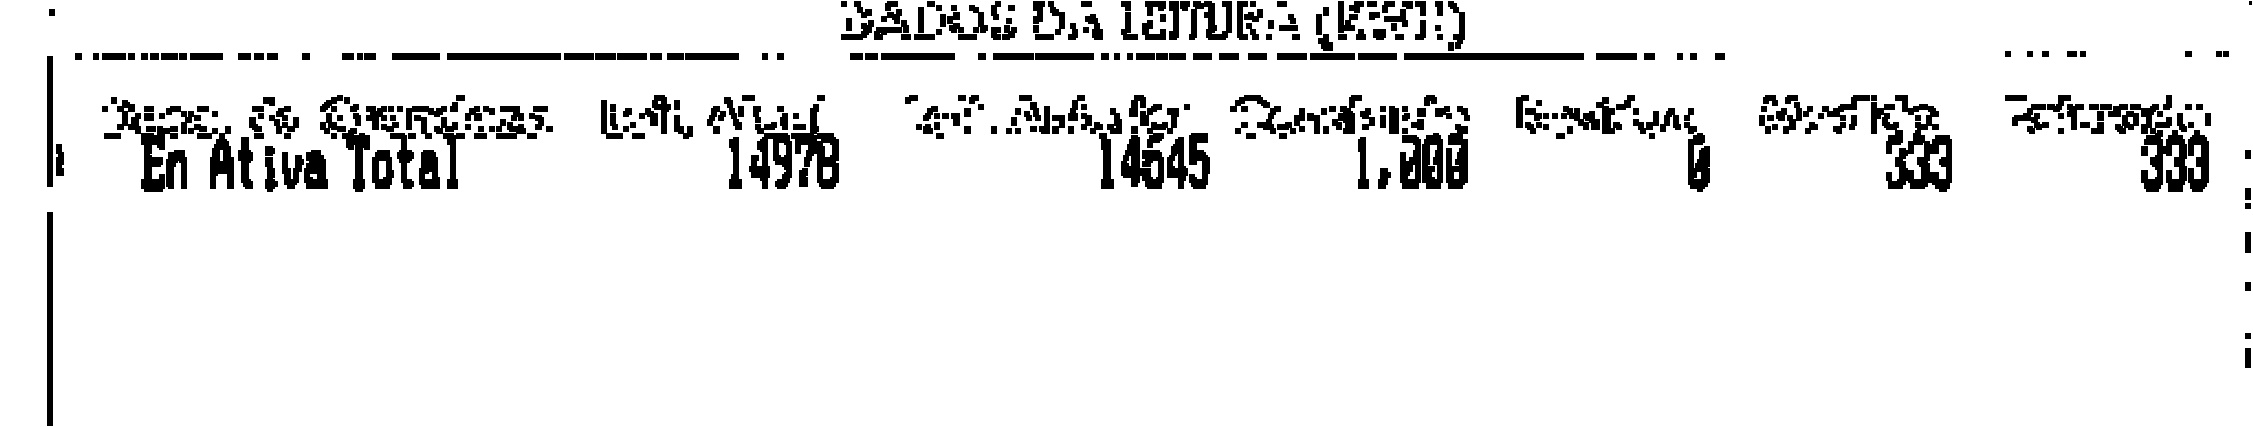
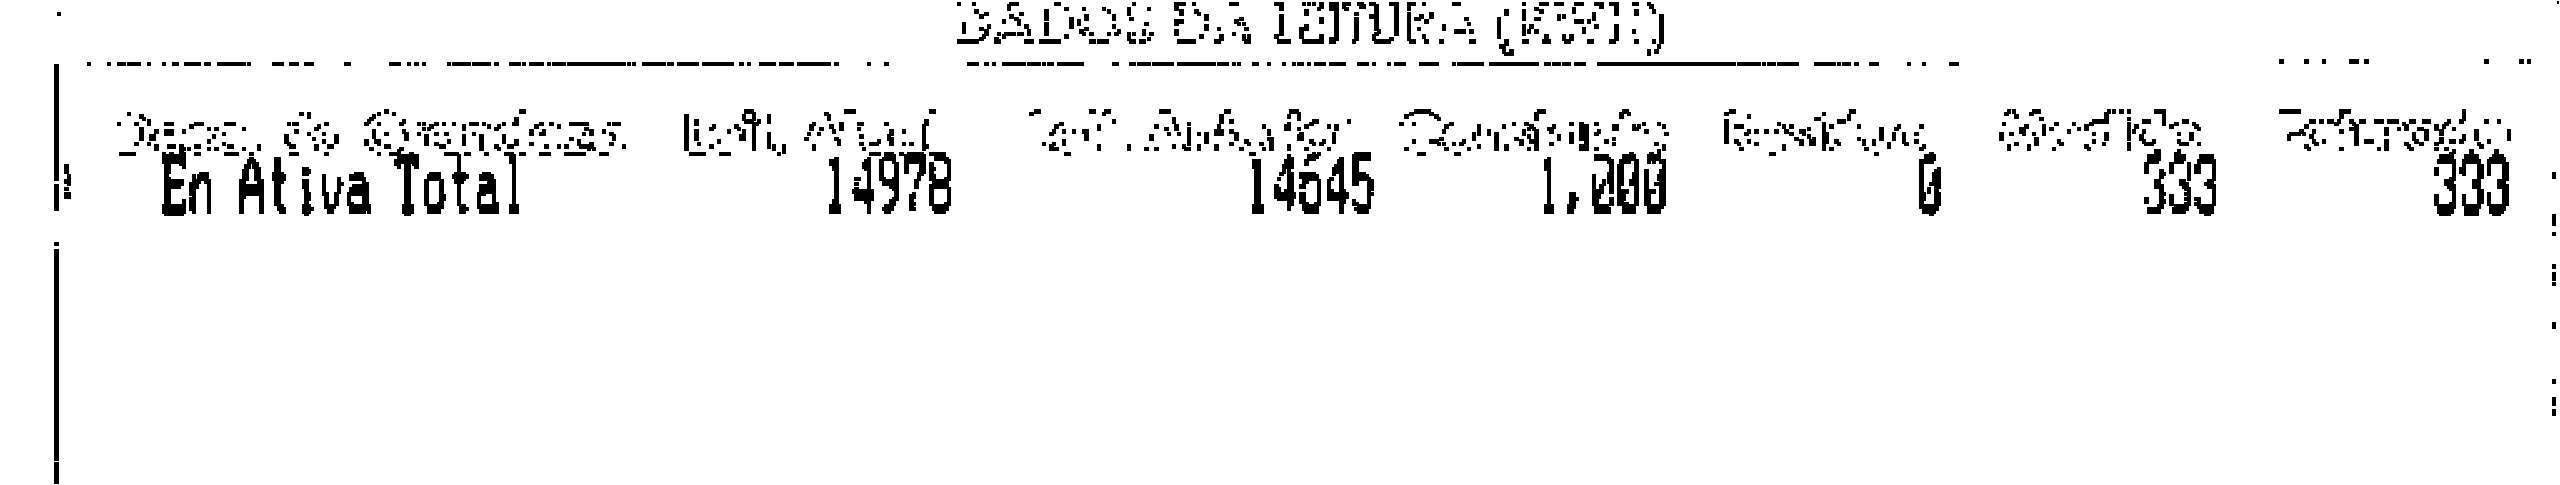
Update image files and refine bill parsing logic
- Updated _pipe-readings.jpg and _pipe-readingsSoft.jpg for improved OCR accuracy.
- Adjusted parameters in test-scan-pipeline.mjs for better reading extraction.
- Enhanced billImport.js and billParser.js to improve reading extraction and validation, accommodating various OCR outputs.

diff --git a/src/lib/billParser.js b/src/lib/billParser.js
@@ -153,18 +153,30 @@ function extractMonthKey(text) {
 }
 
 function collectMeterCandidates(text) {
-  const normalized = normalizeText(text);
+  // Remove datas e anos soltos para não virar "leitura" (ex.: 05/11/2026 → 2026).
+  const normalized = normalizeText(text)
+    .replace(/\b\d{1,2}\s*[\/.\-]\s*\d{1,2}\s*[\/.\-]\s*\d{2,4}\b/g, " ")
+    .replace(/\b20\d{2}\b/g, " ");
   const seen = new Set();
   const out = [];
   for (const match of normalized.matchAll(/\b(\d{4,6})\b/g)) {
     const num = parseBrNumber(match[1]);
     if (num == null || looksLikeYear(num) || num < 1000) continue;
-    // Evita medidor/UC típicos se aparecerem isolados demais; ainda entram no pareamento.
     if (seen.has(num)) continue;
     seen.add(num);
     out.push(num);
   }
   return out;
+}
+
+/** Números na linha En Ativa Total, na ordem da fatura. */
+function extractAtivaNumbers(text) {
+  const normalized = normalizeText(text);
+  const line = normalized.match(/en\s*[a-z]{0,12}\s*total([^\n]{0,160})/i);
+  if (!line) return [];
+  return [...line[1].matchAll(/\b(\d{1,6}(?:[.,]\d{1,3})?)\b/g)]
+    .map((m) => parseBrNumber(m[1]))
+    .filter((n) => n != null && !looksLikeYear(n));
 }
 
 function pickReadingPair(candidates, consumptionHint) {
@@ -206,22 +218,68 @@ function extractReadings(text, consumptionHint = null) {
   let current = null;
   let source = null;
 
-  // Linha Amazonas (mesmo com OCR ruído): En Ativa Total 14978 14645 ...
-  const compact = normalized.match(
-    /en\s*[a-z]{0,12}\s*total[^\d]{0,30}(\d{4,6})\s+(\d{4,6})/i,
-  );
-  if (compact) {
-    current = parseBrNumber(compact[1]);
-    previous = parseBrNumber(compact[2]);
+  // Ordem Amazonas: En Ativa Total | atual | anterior | const | res | medido | fat
+  const ativaNums = extractAtivaNumbers(text);
+  if (ativaNums.length) {
+    const ints = ativaNums.filter((n) => Number.isInteger(n));
+    const big = ints.filter((n) => String(n).length >= 5);
+    const first = ints[0] ?? null;
+    const second = ints[1] ?? null;
+    const kwhFromAtiva = ints.find((n) => n >= 50 && n <= 5000 && String(n).length <= 4) ?? null;
+    const kwh = consumptionHint ?? kwhFromAtiva;
+
     if (
-      current != null && previous != null
-      && !looksLikeYear(current) && !looksLikeYear(previous)
-      && current >= previous
+      first != null && second != null
+      && String(first).length >= 4 && String(second).length >= 4
+      && !looksLikeYear(first) && !looksLikeYear(second)
     ) {
-      source = "ativa-total";
-    } else {
-      previous = null;
-      current = null;
+      if (first >= second && (kwh == null || Math.abs(first - second - kwh) <= 8)) {
+        current = first;
+        previous = second;
+        source = "ativa-ordered";
+      } else if (kwh != null && String(second).length >= 5) {
+        // Atual OCR veio errada (14378 vs 14978); confia na anterior + consumo.
+        previous = second;
+        current = second + kwh;
+        source = "ativa-prev-plus-kwh";
+      } else if (kwh != null && String(first).length >= 5 && first > kwh) {
+        current = first;
+        previous = first - kwh;
+        source = "ativa-curr-minus-kwh";
+      }
+    } else if (big.length === 1 && kwh != null) {
+      if (first != null && first < big[0] && String(first).length < 5) {
+        previous = big[0];
+        current = big[0] + kwh;
+        source = "ativa-prev-plus-kwh";
+      } else {
+        current = big[0];
+        previous = big[0] - kwh;
+        source = "ativa-curr-minus-kwh";
+      }
+    } else if (big.length === 1) {
+      current = big[0];
+      source = "ativa-current-only";
+    }
+  }
+
+  // Linha Amazonas (mesmo com OCR ruído): En Ativa Total 14978 14645 ...
+  if (previous == null || current == null) {
+    const compact = normalized.match(
+      /en\s*[a-z]{0,12}\s*total[^\d]{0,30}(\d{4,6})\s+(\d{4,6})/i,
+    );
+    if (compact) {
+      const cur = parseBrNumber(compact[1]);
+      const prev = parseBrNumber(compact[2]);
+      if (
+        cur != null && prev != null
+        && !looksLikeYear(cur) && !looksLikeYear(prev)
+        && cur >= prev
+      ) {
+        current = cur;
+        previous = prev;
+        source = "ativa-total";
+      }
     }
   }
 
@@ -537,7 +595,18 @@ function extractConsumptionHint(text) {
     const value = parseBrNumber(labeled[1]);
     if (value != null && value > 0 && value < 100000) return value;
   }
-  // Fim da linha En Ativa: ... 0 333 333 (medido/faturado).
+  // Medido/faturado no fim da linha En Ativa (… 0 333 333).
+  const ativaNums = extractAtivaNumbers(text).filter((n) => Number.isInteger(n));
+  if (ativaNums.length >= 2) {
+    const a = ativaNums[ativaNums.length - 2];
+    const b = ativaNums[ativaNums.length - 1];
+    if (a >= 30 && a <= 8000 && b >= 30 && b <= 8000 && Math.abs(a - b) <= 5) {
+      return Math.max(a, b);
+    }
+  }
+  // Um único consumo 3 dígitos na linha (OCR cortou o segundo 333).
+  const ativaKwh = ativaNums.find((n) => n >= 50 && n <= 5000 && String(n).length === 3);
+  if (ativaKwh != null) return ativaKwh;
   const ativaTail = normalized.match(
     /en\s*[a-z]{0,12}\s*total[\s\S]{0,80}?\b(\d{2,4})\s+(\d{2,4})\s*$/im,
   );
@@ -645,14 +714,15 @@ function completeReadings(raw) {
       raw.current = expectedCurrent;
     }
   }
-  // Leituras ok sem consumo → consumo = atual - anterior
+  // Leituras ok sem consumo → consumo = atual - anterior (faixa residencial).
   if (
     raw.consumptionHint == null
     && raw.previous != null
     && raw.current != null
     && raw.current > raw.previous
   ) {
-    raw.consumptionHint = (raw.current - raw.previous) * factor;
+    const delta = (raw.current - raw.previous) * factor;
+    if (delta >= 30 && delta <= 8000) raw.consumptionHint = delta;
   }
 }
 

diff --git a/src/lib/billImport.js b/src/lib/billImport.js
@@ -204,8 +204,9 @@ async function recognizePasses(baseCanvas, worker, onProgress) {
     { label: "página", y0: 0, y1: 1, hardBin: false, thicken: 1, scale: 1, psm: PSM.AUTO },
     { label: "cabeçalho", y0: 0.03, y1: 0.18, hardBin: false, thicken: 0, scale: 2, psm: PSM.SINGLE_BLOCK },
     { label: "cabeçalho nítido", y0: 0.03, y1: 0.18, hardBin: true, thicken: 1, scale: 2.2, psm: PSM.SINGLE_BLOCK },
-    { label: "leituras", y0: 0.55, y1: 0.78, hardBin: true, thicken: 2, scale: 2.2, psm: PSM.SINGLE_BLOCK },
-    { label: "leituras soft", y0: 0.55, y1: 0.78, hardBin: false, thicken: 1, scale: 2, psm: PSM.SPARSE_TEXT },
+    { label: "leituras", y0: 0.55, y1: 0.78, hardBin: true, thicken: 1, scale: 2.5, psm: PSM.SINGLE_BLOCK },
+    { label: "leituras soft", y0: 0.55, y1: 0.78, hardBin: false, thicken: 0, scale: 2.2, psm: PSM.SPARSE_TEXT },
+    { label: "leituras dígitos", y0: 0.58, y1: 0.72, hardBin: true, thicken: 1, scale: 3, psm: PSM.SINGLE_LINE },
     { label: "COSIP", y0: 0.68, y1: 0.92, hardBin: true, thicken: 1, scale: 2, psm: PSM.SINGLE_BLOCK },
   ];
 
